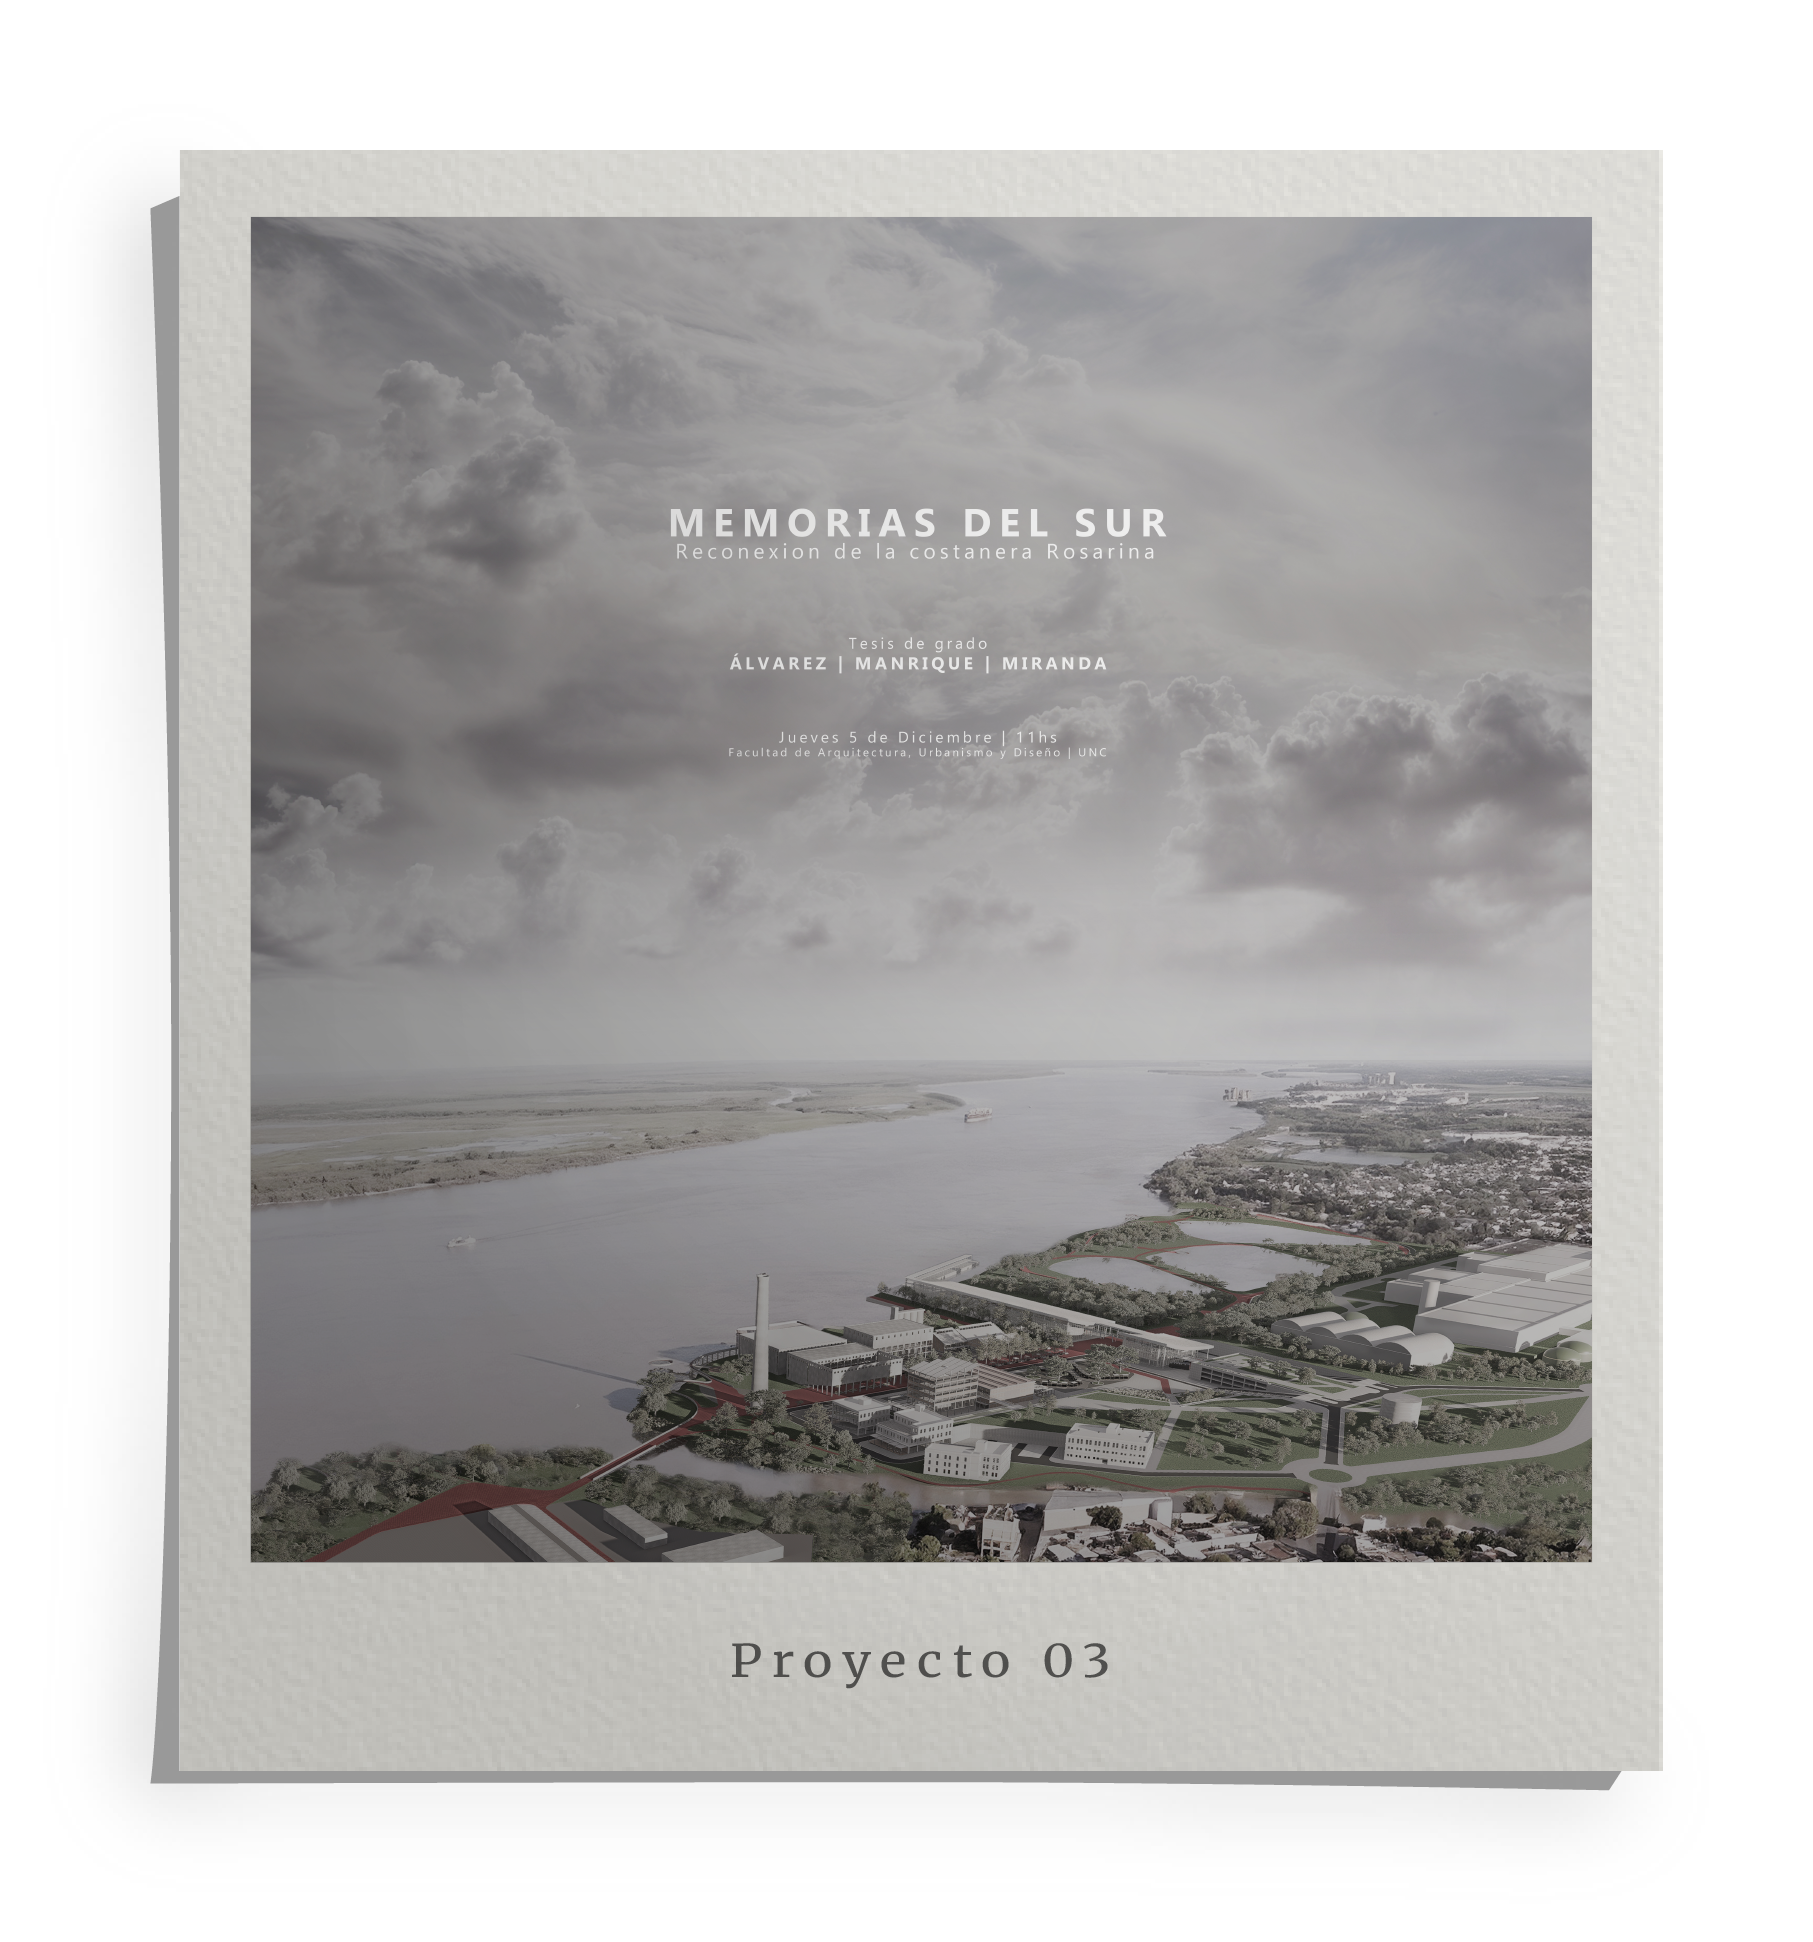
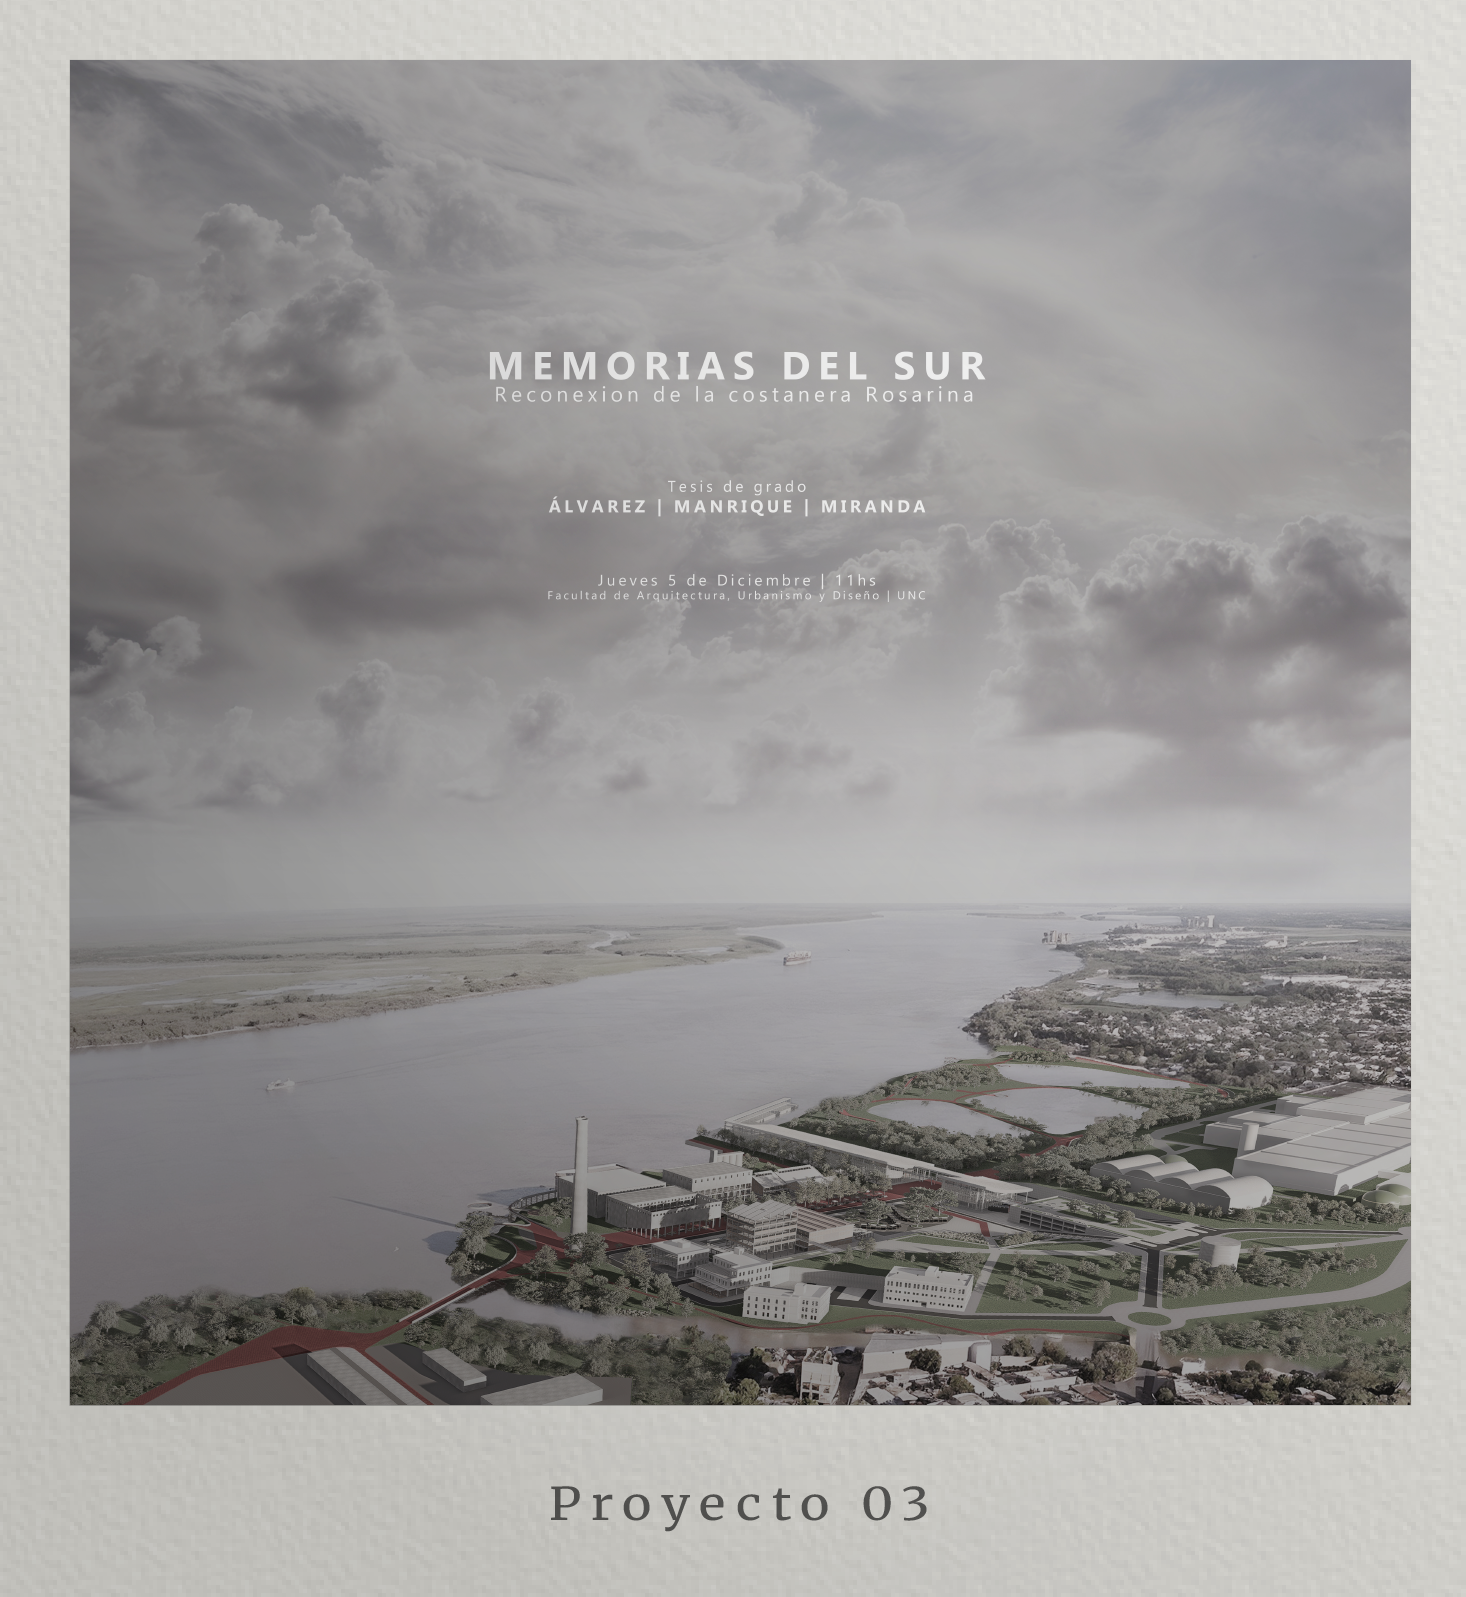
Actualizo proyectos.html

diff --git a/css/styles.css b/css/styles.css
@@ -21,6 +21,16 @@ body, html {
 
 .logo {
   height: 40px;
+  opacity: 0;
+  animation: fadeSlideIn 1.5s ease forwards;
+  animation-delay: 0.5s;
+}
+
+@keyframes fadeSlideIn {
+  to {
+    opacity: 1;
+    transform: translateY(0);
+  }
 }
 
 .menu-toggle {
@@ -76,6 +86,7 @@ body, html {
 .blur {
   filter: blur(5px);
   transition: filter 1s ease;
+  pointer-events: none;
 }
 
 .inicio {
@@ -86,6 +97,10 @@ body, html {
   align-items: center;
   flex-direction: column;
   text-align: center;
+}
+
+.inicio .navbar-logo {
+  display: none;
 }
 
 .main-logo {
@@ -132,9 +147,9 @@ body, html {
   }
 }
 
-.filosofia {
+.page-filosofia {
   height: 100vh;
-  background: url('../images/PORTADA.png') no-repeat center center/cover;
+  background: url('../images/FILOSOFIA_01.png') no-repeat center center/cover;
   display: flex;
   justify-content: center;
   align-items: center;
@@ -142,19 +157,22 @@ body, html {
   text-align: center;
 }
 
-.main-logo {
+.titulo-filosofia {
+  font-size: 70px;
   width: 33vw;
-  animation: fadeInUpLogo 2.5s ease forwards;
+  animation: fadeInUpTitulo 2.5s ease forwards;
 }
 
-.subtext {
+.subtitulo-filosofia {
   color: white;
   margin-top: 20px;
   font-size: 18px;
-  animation: fadeInUp 2s ease forwards;
+  font-family: Arial, Helvetica, sans-serif;
+  font-weight: 100;
+  animation: fadeInUpSubtitulo 2s ease forwards;
 }
 
-@keyframes fadeInUpLogo {
+@keyframes fadeInUpTitulo {
   0% {
     opacity: 0;
     transform: translateY(30px);
@@ -165,7 +183,7 @@ body, html {
   }
 }
 
-@keyframes fadeInUp {
+@keyframes fadeInUpSubtitulo {
   0% {
     opacity: 0;
     transform: translateY(30px);
@@ -174,26 +192,62 @@ body, html {
     opacity: 1;
     transform: translateY(0);
   }
+}
+
+.page-proyectos {
+  display: grid;
+  background: url(/images/background\ proyectos.jpg) no-repeat center center/cover;
+  grid-template-columns: 1fr 1fr 1fr 1fr; /* 4 columnas */
+  background-color: rgb(228, 228, 228);
+  padding: 60px 0;
+  gap: 20px;
+  min-height: 100vh;
+  align-items: start;
+}
+
+.col-vacia {
+  /* No necesita estilos, solo ocupa espacio */
 }
 
 .grid-proyectos {
+  grid-column: 2 / span 2; /* ocupa columnas 2 y 3 */
   display: grid;
-  grid-template-columns: repeat(auto-fit, minmax(250px, 1fr));
-  gap: 2rem;
+  grid-template-columns: repeat(3, 1fr);
+  gap: 50px;
 }
 
-.grid-proyectos a {
-  text-align: center;
-  text-decoration: none;
-  color: inherit;
-}
-
-.grid-proyectos img {
+.grid-proyectos a img {
   width: 100%;
-  border-radius: 12px;
+  height: auto;
   transition: transform 0.3s ease;
+  display: block;
 }
 
-.grid-proyectos img:hover {
-  transform: scale(1.03);
+.grid-proyectos a:hover img {
+  transform: scale(1.10);
+}
+
+.proyecto {
+  position: relative;
+  overflow: visible; /* MUY IMPORTANTE para que se vea la sombra */
+  display: flex;
+  justify-content: center;
+  align-items: center;
+}
+
+.polaroid {
+  z-index: 3;
+  transform: scale(0.85);
+  transition: transform 0.5s ease, box-shadow 0.5s ease;
+  box-shadow: 0 3px 10px rgba(0, 0, 0, 0.8);
+  max-width: 100%;
+  height: auto;
+  object-fit: contain;
+  display: block;
+}
+
+.proyecto:hover .polaroid {
+  transform: scale(1.05);
+  transition: transform 0.5s ease, box-shadow 0.5s ease;
+  box-shadow: 0 20px 45px rgba(0, 0, 0, 0.3);
 }

diff --git a/proyectos.html b/proyectos.html
@@ -8,9 +8,9 @@
   <link rel="stylesheet" href="css/styles.css" />
   <link href="https://fonts.googleapis.com/css2?family=Merriweather&display=swap" rel="stylesheet">
 </head>
-<body>
+<body class="pagina">
   <nav class="navbar">
-    <a href="index.html"><img src="images/LOGO.png" alt="Logo" class="logo" /></a>
+    <a href="index.html"><img src="images/LOGO.png" alt="Logo" class="logo navbar-logo logo-animado" /></a>
     <div class="menu-toggle" onclick="toggleMenu()">☰</div>
   </nav>
 
@@ -25,22 +25,22 @@
     </ul>
   </div>
 
-  <section class="page" id="proyectos">
-    <h1 class="titulo-seccion">Proyectos</h1>
+  <section class="page-proyectos" id="mainContent">
+    <div class="col-vacia"></div>
+
     <div class="grid-proyectos">
       <a href="proyectos/proyecto01.html" class="proyecto">
-        <img src="images/PROYECTOS/proyecto01.png" alt="Proyecto01">
-        <div class="proyecto-titulo">Proyecto01</div>
+         <img src="images/PROYECTOS/proyecto01.png" alt="Proyecto01" class="polaroid">
       </a>
       <a href="proyectos/proyecto02.html" class="proyecto">
-        <img src="images/PROYECTOS/proyecto02.png" alt="Hotel Boutique">
-        <div class="proyecto-titulo">Hotel Boutique</div>
+        <img src="images/PROYECTOS/proyecto02.png" alt="Hotel Boutique" class="polaroid">
       </a>
       <a href="proyectos/proyecto03.html" class="proyecto">
-        <img src="images/PROYECTOS/proyecto03.png" alt="Local Comercial">
-        <div class="proyecto-titulo">Local Comercial</div>
+        <img src="images/PROYECTOS/proyecto03.png" alt="Local Comercial" class="polaroid">
       </a>
     </div>
+
+    <div class="col-vacia"></div>
 </section>
 
   <script src="js/scripts.js"></script>

diff --git a/filosofia.html b/filosofia.html
@@ -7,9 +7,9 @@
   <link rel="stylesheet" href="css/styles.css" />
   <link href="https://fonts.googleapis.com/css2?family=Merriweather&display=swap" rel="stylesheet">
 </head>
-<body>
+<body class="pagina">
   <nav class="navbar">
-    <a href="index.html"><img src="images/LOGO.png" alt="Logo" class="logo" /></a>
+    <a href="index.html"><img src="images/LOGO.png" alt="Logo" class="logo navbar-logo logo-animado" /></a>
     <div class="menu-toggle" onclick="toggleMenu()">☰</div>
   </nav>
 
@@ -24,14 +24,10 @@
     </ul>
   </div>
 
-  <section class="page" id="filosofia">
-    <div class="overlay">
-    </div>
-  </section>
-
+  <section class="page-filosofia" id="mainContent">
   <div class="overlay-text" id="textBlock">
-    <h1 class="titulo-filosofia negro">Título Filosofía</h1>
-    <h2 class="subtitulo-filosofia negro">Subtítulo Filosofía</h2>
+    <h1 class="titulo-filosofia">Título Filosofía</h1>
+    <h2 class="subtitulo-filosofia">Subtítulo Filosofía</h2>
   </div>
 </div>
   </section>

diff --git a/js/scripts.js b/js/scripts.js
@@ -1,11 +1,29 @@
-
 function toggleMenu() {
   const menu = document.getElementById('sideMenu');
   const main = document.getElementById('mainContent');
+
   menu.classList.toggle('open');
+
   if (menu.classList.contains('open')) {
     main.classList.add('blur');
   } else {
     main.classList.remove('blur');
   }
 }
+
+// Cerrar menú al hacer clic afuera
+document.addEventListener('click', function (event) {
+  const menu = document.getElementById('sideMenu');
+  const toggle = document.querySelector('.menu-toggle');
+  const main = document.getElementById('mainContent');
+
+  // Si el menú está abierto y el clic fue fuera del menú y del botón toggle
+  if (
+    menu.classList.contains('open') &&
+    !menu.contains(event.target) &&
+    !toggle.contains(event.target)
+  ) {
+    menu.classList.remove('open');
+    main.classList.remove('blur');
+  }
+});

diff --git a/servicios.html b/servicios.html
@@ -8,9 +8,9 @@
   <link rel="stylesheet" href="css/styles.css" />
   <link href="https://fonts.googleapis.com/css2?family=Merriweather&display=swap" rel="stylesheet">
 </head>
-<body>
+<body class="pagina">
   <nav class="navbar">
-    <a href="index.html"><img src="images/LOGO.png" alt="Logo" class="logo" /></a>
+    <a href="index.html"><img src="images/LOGO.png" alt="Logo" class="logo navbar-logo logo-animado" /></a>
     <div class="menu-toggle" onclick="toggleMenu()">☰</div>
   </nav>
 
@@ -25,7 +25,7 @@
     </ul>
   </div>
 
-  <section class="page" id="servicios">
+  <section class="page-servicios" id="mainContent">
     <div class="overlay">
     </div>
   </section>

diff --git a/contacto.html b/contacto.html
@@ -8,9 +8,9 @@
   <link rel="stylesheet" href="css/styles.css" />
   <link href="https://fonts.googleapis.com/css2?family=Merriweather&display=swap" rel="stylesheet">
 </head>
-<body>
+<body class="pagina">
   <nav class="navbar">
-    <a href="index.html"><img src="images/LOGO.png" alt="Logo" class="logo" /></a>
+    <a href="index.html"><img src="images/LOGO.png" alt="Logo" class="logo navbar-logo logo-animado" /></a>
     <div class="menu-toggle" onclick="toggleMenu()">☰</div>
   </nav>
 
@@ -25,7 +25,7 @@
     </ul>
   </div>
 
-  <section class="page" id="contacto">
+  <section class="page-contacto" id="mainContent">
     <div class="overlay">
     </div>
   </section>

diff --git a/sobremi.html b/sobremi.html
@@ -8,9 +8,9 @@
   <link rel="stylesheet" href="css/styles.css" />
   <link href="https://fonts.googleapis.com/css2?family=Merriweather&display=swap" rel="stylesheet">
 </head>
-<body>
+<body class="pagina">
   <nav class="navbar">
-    <a href="index.html"><img src="images/LOGO.png" alt="Logo" class="logo" /></a>
+    <a href="index.html"><img src="images/LOGO.png" alt="Logo" class="logo navbar-logo logo-animado" /></a>
     <div class="menu-toggle" onclick="toggleMenu()">☰</div>
   </nav>
 
@@ -25,7 +25,7 @@
     </ul>
   </div>
 
-  <section class="page" id="sobremi">
+  <section class="page-sobremi" id="mainContent">
     <div class="overlay">
     </div>
   </section>

diff --git a/index.html b/index.html
@@ -8,9 +8,9 @@
   <link rel="stylesheet" href="css/styles.css" />
   <link href="https://fonts.googleapis.com/css2?family=Merriweather&display=swap" rel="stylesheet">
 </head>
-<body>
+<body class="inicio">
   <nav class="navbar">
-    <a href="index.html"><img src="images/LOGO.png" alt="Logo" class="logo" /></a>
+    <a href="index.html"><img src="images/LOGO.png" alt="Logo" class="logo navbar-logo logo-animado" /></a>
     <div class="menu-toggle" onclick="toggleMenu()">☰</div>
   </nav>
 

diff --git a/proyectos/proyecto01.html b/proyectos/proyecto01.html
@@ -28,7 +28,7 @@
   </div>
 
    <!-- CONTENIDO DE LA PÁGINA -->
-   <section class="page" id="proyecto01">
+   <section class="page-proyecto01" id="mainContent">
     <h1 class="titulo-seccion">Proyecto01</h1>
     <img src="/images/PROYECTOS/proyecto01_portada.png" alt="Proyecto01" class="proyecto-portada">
     <div class="descripcion-proyecto">

diff --git a/proyectos/proyecto03.html b/proyectos/proyecto03.html
@@ -28,7 +28,7 @@
   </div>
 
   <!-- CONTENIDO DE LA PÁGINA -->
-  <section class="page" id="proyecto03">
+  <section class="page-proyecto03" id="mainContent">
     <h1 class="titulo-seccion">Proyecto03</h1>
     <img src="../images/PROYECTOS/proyecto03_portada.png" alt="Proyecto03" class="proyecto-portada">
     <div class="descripcion-proyecto">
